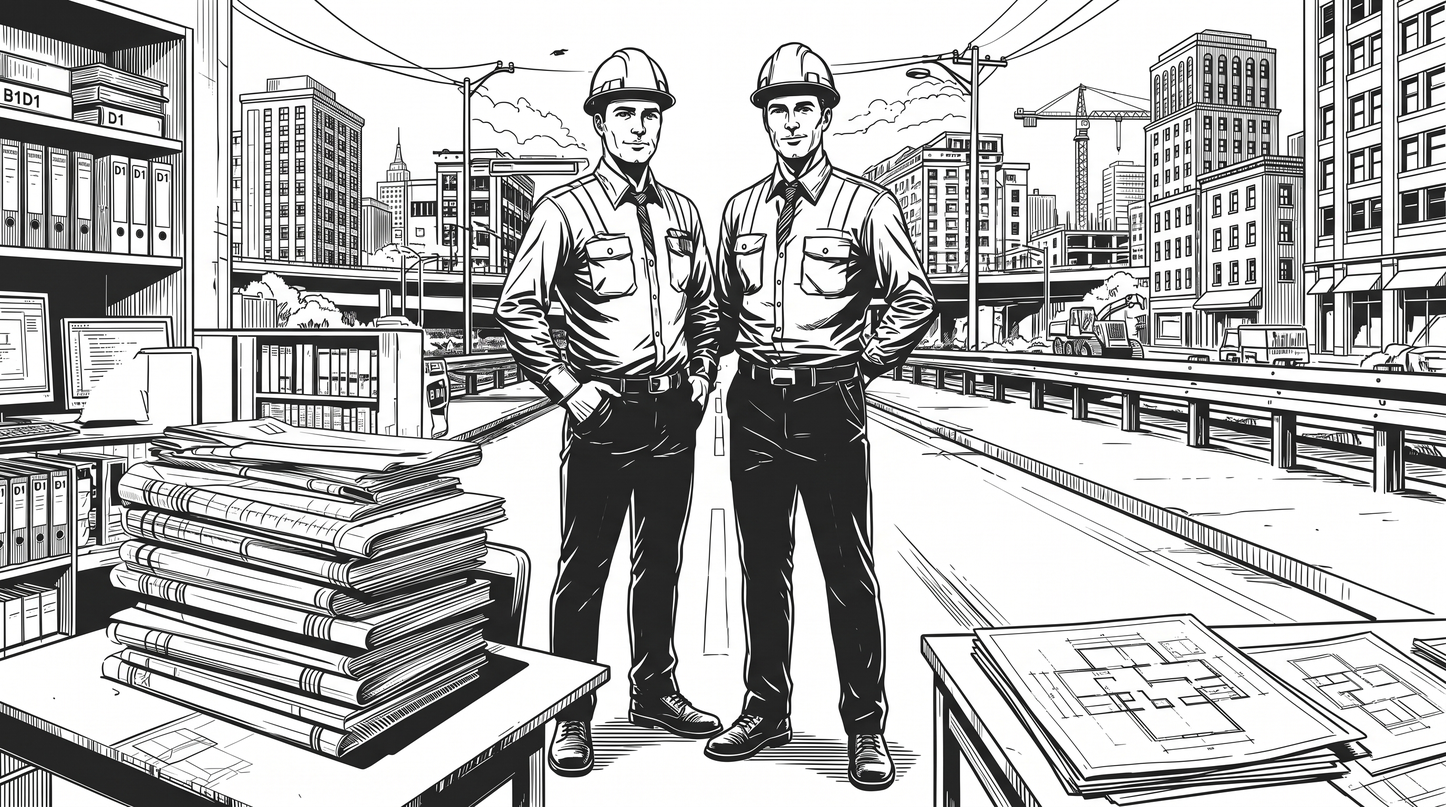
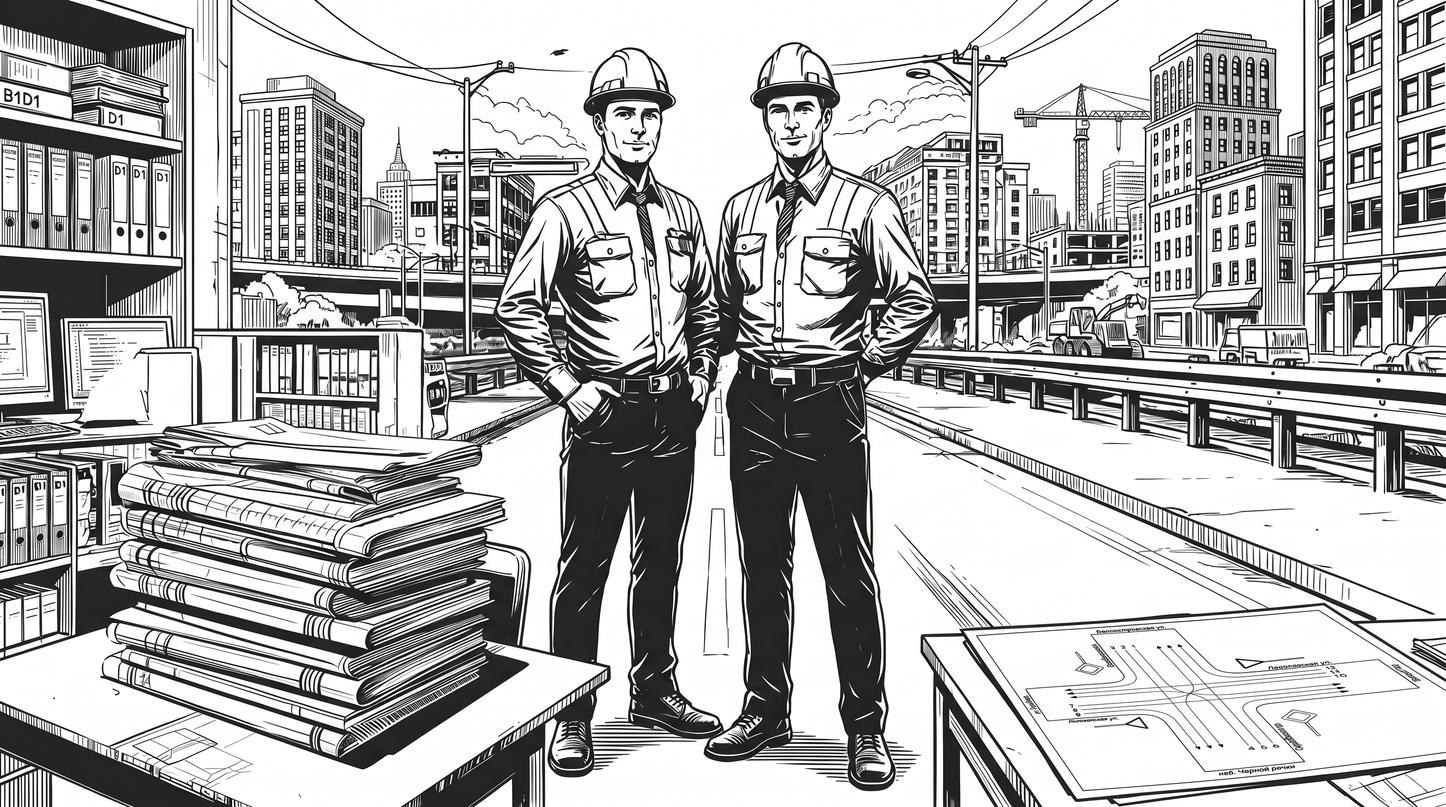
Add files via upload

diff --git a/index.html b/index.html
@@ -5,6 +5,9 @@
         <meta name="viewport" content="width=device-widht, initial-scale=1.0">
         <title>Интеллектуальное планирование</title>
         <link rel="stylesheet" href="style.css">
+        <link rel="icon" type="image/png" href="favicon.png">
+        <link rel="shortcut icon" href="favicon.png">
+        <link rel="apple-touch-icon" href="favicon.png">
     </head>
     <body>
         <header class="header">
@@ -116,7 +119,7 @@
         <div class="sheet-backdrop" id="sheetbackdrop"></div>
     <div class="sheet" id="bottomSheet">
     <div class="sheet__handle"></div>
-    <button class="sheet__close" id="sheetClose" aria-label="Закрыть"></button>
+    <button class="sheet__close" id="sheetClose" aria-label="Закрыть">X</button>
     <div class="sheet__content">
         <h2 class="sheet__title" id="sheetTitle">
         </h2>

diff --git a/style.css b/style.css
@@ -384,6 +384,17 @@ address {font-style: normal; }
     left: 0;
     color: var(--clr-gray-3);
 }
+#bottomSheet ul {
+    list-style: disc;
+    padding-left: 24px;
+}
+#bottomSheet li {
+    margin-bottom: 10px;
+    line-height: 1.6;
+}
+.sheet__close:hover {
+    color: var(--clr-black);
+}
 .about {
     padding-block: var(--space-20);
     border-bottom: 1px solid var(--clr-gray-2);
